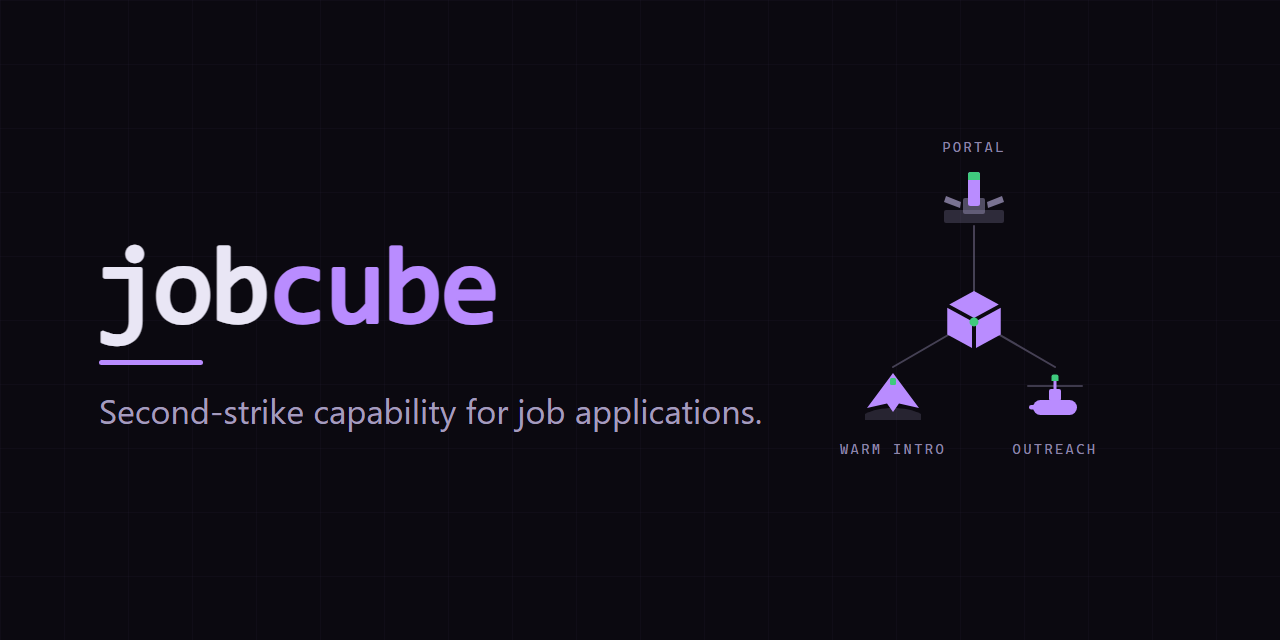
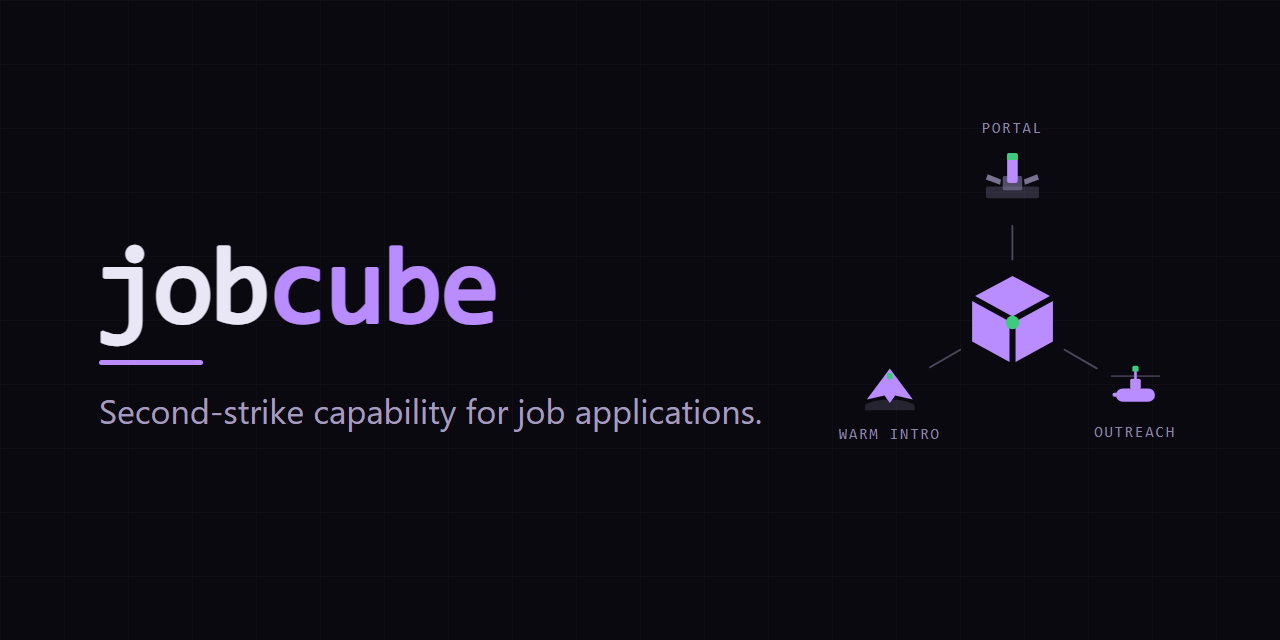
Lay the triad out from measured centres of mass
Three fixes to the composition, and the third explains why it looked subtly
off in a way that was hard to name.

The mark is larger -- 1.6x against 0.75x for the legs, so the hub is clearly
the hub rather than a fourth icon.

Every spoke now has clear space at both ends. The gap is computed from each
glyph's ink radius rather than assumed, so it is visually identical on all
three arms even though the glyphs are different sizes.

And the spokes point at the ink rather than at the boxes. Each glyph's centre
of mass was measured by rendering it at 512px and taking the alpha-weighted
centroid, which counts partial opacity the way the eye does. Every one of them
sits BELOW its box centre -- boomer by 6.3 units, silo by 4.3, bomber by 1.7 --
because the hull and the ground slabs are the heavy parts. Centring the boxes
was therefore aiming each spoke above the thing it connected to, which reads as
wrong without being obviously wrong. Glyphs are now translated so the measured
centroid lands exactly on the ray.

The measurements live in METRICS in build_assets.py with a note to re-measure
if a glyph changes; the measuring script itself is throwaway and not committed.

Also caught while checking: I had transcribed bomber's radius as 25.44, which
is the already-scaled value, so it got scaled a second time and that arm's gap
came out wrong. Corrected to the measured 33.92.

Canvas gained headroom -- the top label was touching the edge -- and the triad
[…]

diff --git a/assets/build_assets.py b/assets/build_assets.py
@@ -72,6 +72,85 @@ LEGS = {
     "bomber": (BOMBER, "Bomber — warm intro"),
 }
 
+# ── measured geometry ───────────────────────────────────────────────────────
+# Alpha-weighted centroid and enclosing ink radius of each glyph, in the 64-unit
+# viewBox. Measured by rendering each at 512px and taking the centroid of the
+# rendered alpha, so partial opacity counts the way the eye counts it.
+#
+# These are why the spokes looked wrong. Every glyph's ink sits BELOW its box
+# centre -- boomer by 6.3 units, silo by 4.3 -- because the hull and the ground
+# slab are the heavy parts. Centring the boxes therefore pointed each spoke
+# above the thing it was supposed to connect to. Re-measure if a glyph changes.
+METRICS = {
+    "trefoil": {"cx": 31.94, "cy": 31.98, "r": 23.16},
+    "silo":    {"cx": 31.94, "cy": 36.34, "r": 35.47},
+    "boomer":  {"cx": 31.49, "cy": 38.34, "r": 31.33},
+    "bomber":  {"cx": 31.94, "cy": 33.72, "r": 33.92},
+}
+
+# Layout, in the triad's own 360x310 coordinate space.
+TW, TH = 360, 300
+CX, CY = 180.0, 176.0
+HUB_SCALE = 1.6      # the mark, deliberately larger than the legs
+LEG_SCALE = 0.75
+SPOKE = 120.0        # centroid-to-centroid distance
+GAP = 14.0           # clear space at both ends of every spoke
+
+# angle, glyph, label, which side the label sits on
+ARMS = [
+    (-90.0, "silo", "SILO", "above"),
+    (30.0, "boomer", "BOOMER", "below"),
+    (150.0, "bomber", "BOMBER", "below"),
+]
+
+
+def _place(name: str, px: float, py: float, scale: float) -> str:
+    """Translate a glyph so its measured centroid lands exactly on (px, py)."""
+    m = METRICS[name]
+    return (
+        f'<use href="#{name}" transform="translate('
+        f'{px - m["cx"] * scale:.2f},{py - m["cy"] * scale:.2f}) scale({scale})"/>'
+    )
+
+
+def triad_group(label_size: float = 10.5) -> str:
+    """Spokes and glyphs, aligned centroid-to-centroid with uniform gaps."""
+    import math
+
+    hub_r = METRICS["trefoil"]["r"] * HUB_SCALE
+    spokes, glyphs, labels = [], [], []
+
+    for deg, name, text, side in ARMS:
+        rad = math.radians(deg)
+        ux, uy = math.cos(rad), math.sin(rad)
+        leg_r = METRICS[name]["r"] * LEG_SCALE
+
+        # The spoke runs between the two ink edges, inset by GAP at each end,
+        # so the visible gap is identical on every arm even though the glyphs
+        # are different sizes.
+        r0, r1 = hub_r + GAP, SPOKE - leg_r - GAP
+        spokes.append(
+            f'<path d="M{CX + ux * r0:.2f},{CY + uy * r0:.2f} '
+            f'L{CX + ux * r1:.2f},{CY + uy * r1:.2f}"/>'
+        )
+
+        px, py = CX + ux * SPOKE, CY + uy * SPOKE
+        glyphs.append("  " + _place(name, px, py, LEG_SCALE))
+
+        ly = py - leg_r - GAP * 0.8 if side == "above" else py + leg_r + GAP * 1.15
+        labels.append(f'<text x="{px:.2f}" y="{ly:.2f}">{text}</text>')
+
+    nl = "\n    "
+    return f"""  <g stroke="{DIM}" stroke-width="1.6" opacity=".5" stroke-linecap="round" fill="none">
+    {nl.join(spokes)}
+  </g>
+{chr(10).join(glyphs)}
+  {_place("trefoil", CX, CY, HUB_SCALE)}
+  <g font-family="ui-monospace, SFMono-Regular, Consolas, monospace" font-size="{label_size}"
+     letter-spacing="1.5" fill="{DIM}" text-anchor="middle">
+    {nl.join(labels)}
+  </g>"""
+
 
 def icon(frag: str, label: str) -> str:
     return (
@@ -80,43 +159,26 @@ def icon(frag: str, label: str) -> str:
     )
 
 
+def _defs() -> str:
+    out = [f'    <g id="trefoil">\n{TREFOIL}\n    </g>']
+    out += [f'    <g id="{name}">\n{frag}\n    </g>' for name, (frag, _) in LEGS.items()]
+    return "\n".join(out)
+
+
 def triad() -> str:
-    defs = "\n".join(
-        f'    <g id="{name}">\n{frag}\n    </g>' for name, (frag, _) in LEGS.items()
-    )
-    return f"""<svg xmlns="http://www.w3.org/2000/svg" viewBox="0 0 460 300" width="460" height="300"
+    return f"""<svg xmlns="http://www.w3.org/2000/svg" viewBox="0 0 {TW} {TH}" width="{TW}" height="{TH}"
      role="img" aria-label="The three delivery legs on the mark's blade axes">
   <title>The jobcube triad — silo, boomer, bomber</title>
   <defs>
-    <g id="trefoil">
-{TREFOIL}
-    </g>
-{defs}
+{_defs()}
   </defs>
 
-  <g stroke="{DIM}" stroke-width="1.6" opacity=".5" stroke-linecap="round" fill="none">
-    <path d="M230,150 L230,74"/><path d="M230,150 L296,188"/><path d="M230,150 L164,188"/>
-  </g>
-
-  <use href="#trefoil" transform="translate(198,118)"/>
-  <use href="#silo"    transform="translate(206,26) scale(0.75)"/>
-  <use href="#boomer"  transform="translate(272,190) scale(0.75)"/>
-  <use href="#bomber"  transform="translate(140,190) scale(0.75)"/>
-
-  <g font-family="ui-monospace, SFMono-Regular, Consolas, monospace" font-size="10.5"
-     letter-spacing="1.5" fill="{DIM}" text-anchor="middle">
-    <text x="230" y="18">SILO</text>
-    <text x="296" y="256">BOOMER</text>
-    <text x="164" y="256">BOMBER</text>
-  </g>
+{triad_group()}
 </svg>
 """
 
 
 def social() -> str:
-    defs = "\n".join(
-        f'    <g id="{name}">\n{frag}\n    </g>' for name, (frag, _) in LEGS.items()
-    )
     return f"""<svg xmlns="http://www.w3.org/2000/svg" viewBox="0 0 1280 640" width="1280" height="640"
      role="img" aria-label="jobcube — second-strike capability for job applications">
   <title>jobcube</title>
@@ -124,10 +186,7 @@ def social() -> str:
     <pattern id="grid" width="64" height="64" patternUnits="userSpaceOnUse">
       <path d="M64,0 L0,0 0,64" fill="none" stroke="{VIOLET}" stroke-opacity="0.055" stroke-width="1"/>
     </pattern>
-    <g id="trefoil">
-{TREFOIL}
-    </g>
-{defs}
+{_defs()}
   </defs>
 
   <rect width="1280" height="640" fill="{GROUND}"/>
@@ -145,20 +204,10 @@ def social() -> str:
   <text x="99" y="424" font-family="'Segoe UI',system-ui,Helvetica,Arial,sans-serif"
         font-size="34" fill="#a49cbe">Second-strike capability for job applications.</text>
 
-  <g transform="translate(792,138)">
-    <g stroke="{DIM}" stroke-width="2" opacity=".45" stroke-linecap="round" fill="none">
-      <path d="M182,182 L182,88"/><path d="M182,182 L263,229"/><path d="M182,182 L101,229"/>
-    </g>
-    <use href="#trefoil" transform="translate(142,142) scale(1.25)"/>
-    <use href="#silo"    transform="translate(150,26)"/>
-    <use href="#boomer"  transform="translate(231,226)"/>
-    <use href="#bomber"  transform="translate(69,226)"/>
-    <g font-family="'Cascadia Mono',Consolas,monospace" font-size="14"
-       letter-spacing="2.4" fill="{DIM}" text-anchor="middle">
-      <text x="182" y="14">PORTAL</text>
-      <text x="263" y="316">OUTREACH</text>
-      <text x="101" y="316">WARM INTRO</text>
-    </g>
+  <!-- Same triad geometry as triad.svg, scaled. Component names rather than the
+       icon nicknames: a shared link has no table to explain silo/boomer/bomber. -->
+  <g transform="translate(800,112) scale(1.18)">
+{triad_group(label_size=13).replace("SILO", "PORTAL").replace("BOOMER", "OUTREACH").replace("BOMBER", "WARM INTRO")}
   </g>
 </svg>
 """
